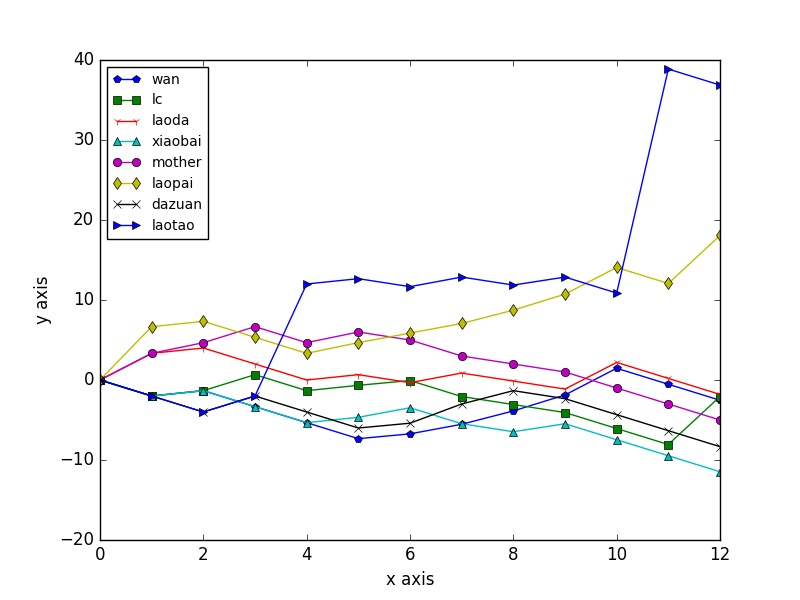
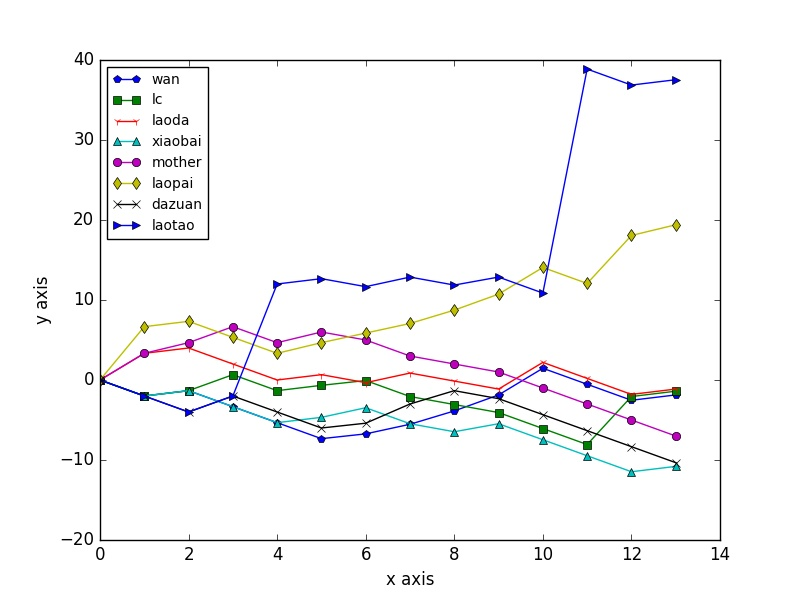
update

diff --git a/README.md b/README.md
@@ -1,23 +1,43 @@
 # E cup guess competition report
 ## real-time ranking
-2016-06-15 12:33:24
+2016-06-15 22:55:21
 
 |rank|name|score|
 |:---:|:---:|:---:|
-|1|laotao|36.87|
-|2|laopai|18.07|
-|3|laoda|-1.80|
-|4|lc|-2.07|
-|5|wan|-2.53|
-|6|mother|-5.00|
-|7|dazuan|-8.33|
-|8|xiaobai|-11.47|
+|1|laotao|37.53|
+|2|laopai|19.40|
+|3|laoda|-1.13|
+|4|lc|-1.40|
+|5|wan|-1.87|
+|6|mother|-7.00|
+|7|dazuan|-10.33|
+|8|xiaobai|-10.80|
 
 ## Pond
-595.27
+594.60
 
 ## History
 ![image](https://github.com/Anserw/E_Cup/blob/master/plot.jpg)
+### 2016061521 Russia 1 : 2 Slovakia
+- handicap: 0 / -0.5
+- scorer: laotao
+- owners:
+ - Russia: dazuan
+ - Slovakia: laopai
+
+
+|name|guess|score change|
+|:---:|:---:|:---:|
+|wan|Slovakia|0.67|
+|lc|Slovakia|0.67|
+|laoda|Slovakia|0.67|
+|xiaobai|Slovakia|0.67|
+|mother|Russia|-2.00|
+|laopai|Slovakia|1.33|
+|dazuan|Russia|-2.00|
+|laotao|Slovakia|0.67|
+|Pond|..|-0.67|
+
 ### 2016061503 Portugal 1 : 1 Iceland
 - handicap: -1
 - scorer: laotao
